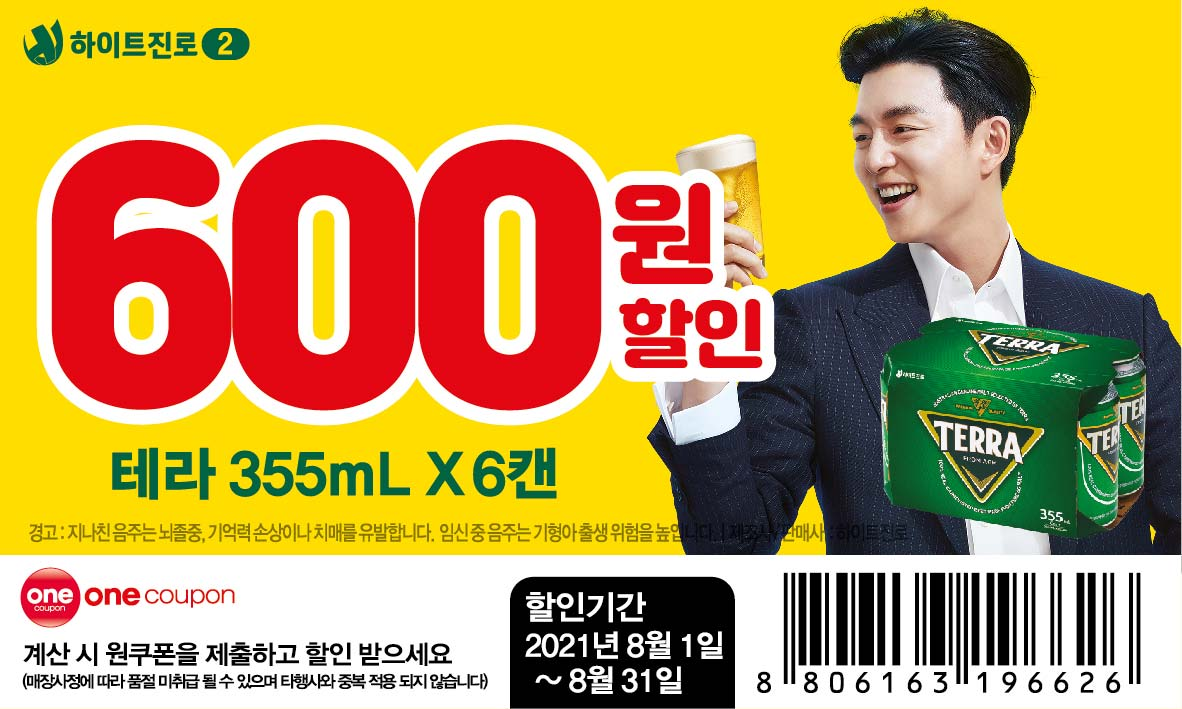
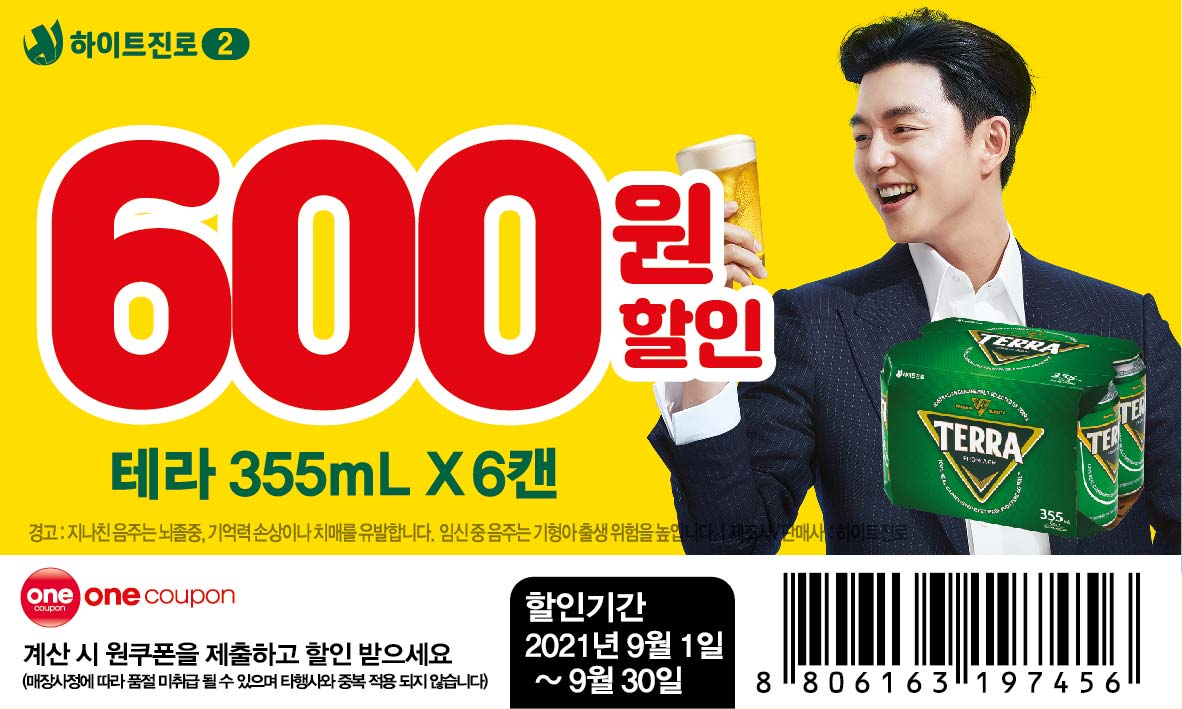
Add files via upload

Changed region(s): [[0.6396, 0.8068, 0.9746, 0.9929], [0.5178, 0.8999, 0.5482, 0.9619]]

diff --git a/coupon/coupon.html b/coupon/coupon.html
@@ -8,26 +8,26 @@
     <link rel="stylesheet" href="css/coupon.css">
 </head>
 <body>
-<h2>2021년 8월 롯데마트 지류쿠폰 리스트</h2>
+<h2>2021년 9월 롯데마트 지류쿠폰 리스트</h2>
 <p>계산시에 이미지를 보여주시면 할인됩니다.</p>
 <p>기간이 만료된 쿠폰은 사용이 불가합니다.</p>
 <p>비영리로 제작된 사이트 입니다. 문제가 발생하면 언제든 삭제하겠습니다.</p>
     <h3>주류</h3>
-    <a href="img/1.jpg">필라이트 후레쉬1.6L PET</a><br>
-    <a href="img/2.jpg">필라이트 후레쉬 355ml X 6캔</a><br>
-    <a href="img/3.jpg">테라 X 스마일리 500mL 6캔</a><br>
-    <a href="img/4.jpg">테라 X 스마일리 355ml 8캔</a><br>
-    <a href="img/5.jpg">테라 X 스마일리 355ml 6캔</a><br>
+    <a href="img/4.jpg">필라이트 후레쉬1.6L PET</a><br>
+    <a href="img/5.jpg">필라이트 후레쉬 355ml X 6캔</a><br>
+    <a href="img/1.jpg">테라 X 스마일리 500mL 6캔</a><br>
+    <a href="img/2.jpg">테라 X 스마일리 355ml 8캔</a><br>
+    <a href="img/3.jpg">테라 X 스마일리 355ml 6캔</a><br>
     <a href="img/6.jpg">테라 1.6L PET</a><br>
     <a href="img/7.jpg">테라 1L PET</a><br>
     <a href="img/8.jpg">테라 355ml X 6캔</a><br>
-    <a href="img/11.jpg">심술7/심술10/심술12 330ml</a><br>
+    <!--<a href="img/11.jpg">심술7/심술10/심술12 330ml</a><br>
     <a href="img/12.jpg">느린마을막걸리 750ml</a><br>
     <a href="img/24.JPG">대선 360ml x 6병입(쿠폰 사용기한 8/31 까지)</a><br>
-    <a href="img/25.JPG">다이아몬드 360ml 1병(쿠폰 사용기한 8/31 까지)</a><br>
-    <a href="img/26.JPG">대선 360ml 1병(쿠폰 사용기한 8/31 까지)</a><br>
-    <a href="img/30.JPG">서울의 밤 매실증류주 25% 375ml(쿠폰 사용기한 9/30 까지)</a><br>
-    <a href="img/81.jpeg">클라우드 생 드래프트 330ml X 8캔</a><br>
+    <a href="img/25.JPG">다이아몬드 360ml 1병(쿠폰 사용기한 8/31 까지)</a><br>!-->
+    <a href="img/13.JPG">대선 360ml 1병(쿠폰 사용기한 8/31 까지)</a><br>
+    <a href="img/12.JPG">서울의 밤 매실증류주 25% 375ml</a><br>
+    <!--<a href="img/81.jpeg">클라우드 생 드래프트 330ml X 8캔</a><br>
     <a href="img/83.jpeg">처음처럼 부드러운 360ml x 6병</a><br>
     <a href="img/84.jpeg">필굿 1.6L 큐팩</a><br>
     <a href="img/89.jpeg">수입맥주 5캔 구매시 500원할인<br>4캔 구매시 400원할인 (이미지 참조)</a><br>
@@ -38,8 +38,8 @@
     <a href="img/814.jpeg">필굿 1.6L 큐팩</a><br>
     <a href="img/815.jpeg">필굿7 500ml</a><br>
     <a href="img/817.jpeg">클라우드 생 드래프트 500ml x 6캔</a><br>
-    <a href="img/818.jpeg">클라우드 500ml x 6캔</a><br>
-    <a href="img/821.jpeg">오켄토션 12년 700ml</a><br>
+    <a href="img/818.jpeg">클라우드 500ml x 6캔</a><br>!-->
+    <a href="img/14.jpeg">발렌타인 17년 700ml</a><br>
 
 
 
@@ -49,18 +49,18 @@
     <h3>조미식품</h3>
     <a href="img/9.jpg">오뚜기 이금기 프리미엄 굴소스 510g</a><br>
     <a href="img/10.jpg">오뚜기 이금기 프리미엄 굴소스 255g</a><br>
-    <a href="img/87.jpeg">다시다 숙성한우60g/멸치다포리60g</a><br>
-    <a href="img/820.jpeg">만토바스프레이오일(7종)</a><br>
+    <!--<a href="img/87.jpeg">다시다 숙성한우60g/멸치다포리60g</a><br>
+    <a href="img/820.jpeg">만토바스프레이오일(7종)</a><br>!-->
 
    
     <h3>비식품</h3>
-    <a href="img/82.jpeg">홈즈탈취탄(3종)</a><br>
-    <a href="img/88.jpeg">홈키파 마이키파(5종)</a><br>
+    <a href="img/11.jpeg">검가드 오리지널(750ml)</a><br>
+    <!--<a href="img/88.jpeg">홈키파 마이키파(5종)</a><br>!-->
     
 
-    <h3>커피/차</h3>
+    <!--<h3>커피/차</h3>
     <a href="img/85.jpeg">네스카페오리진스(4종)</a><br>
-    <a href="img/86.jpeg">G7커피 전품목</a><br>
+    <a href="img/86.jpeg">G7커피 전품목</a><br>!-->
 
 
 
